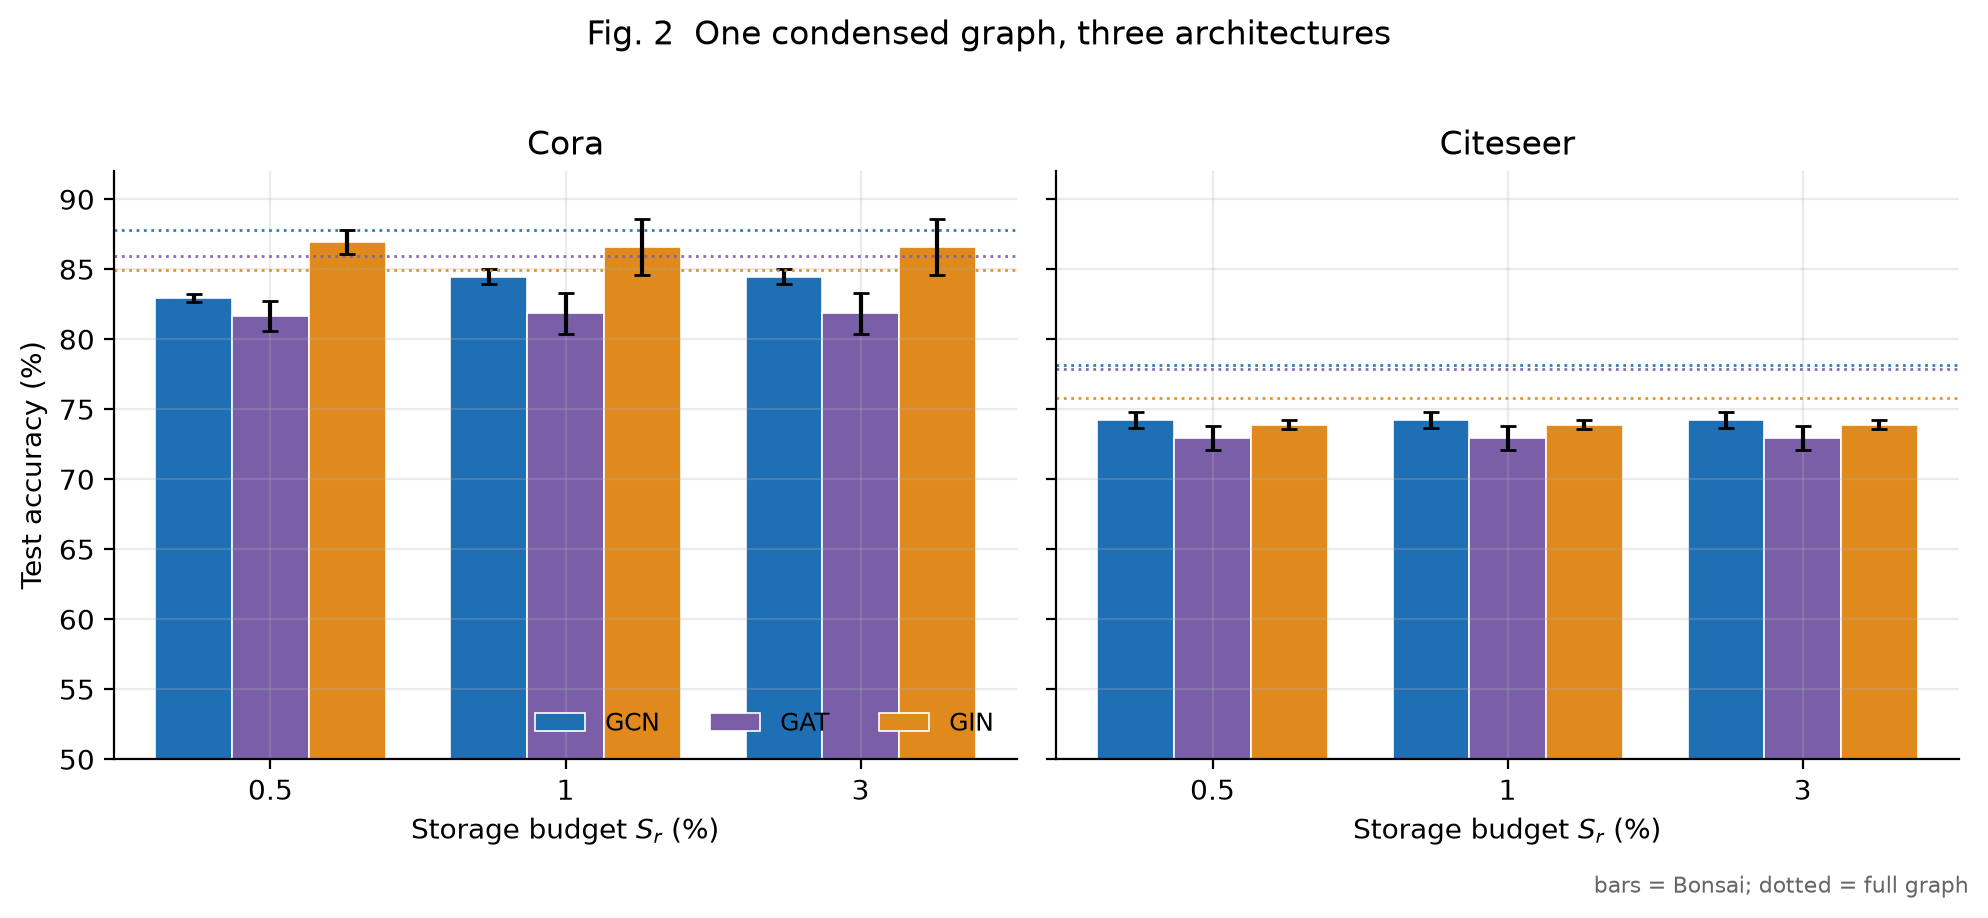
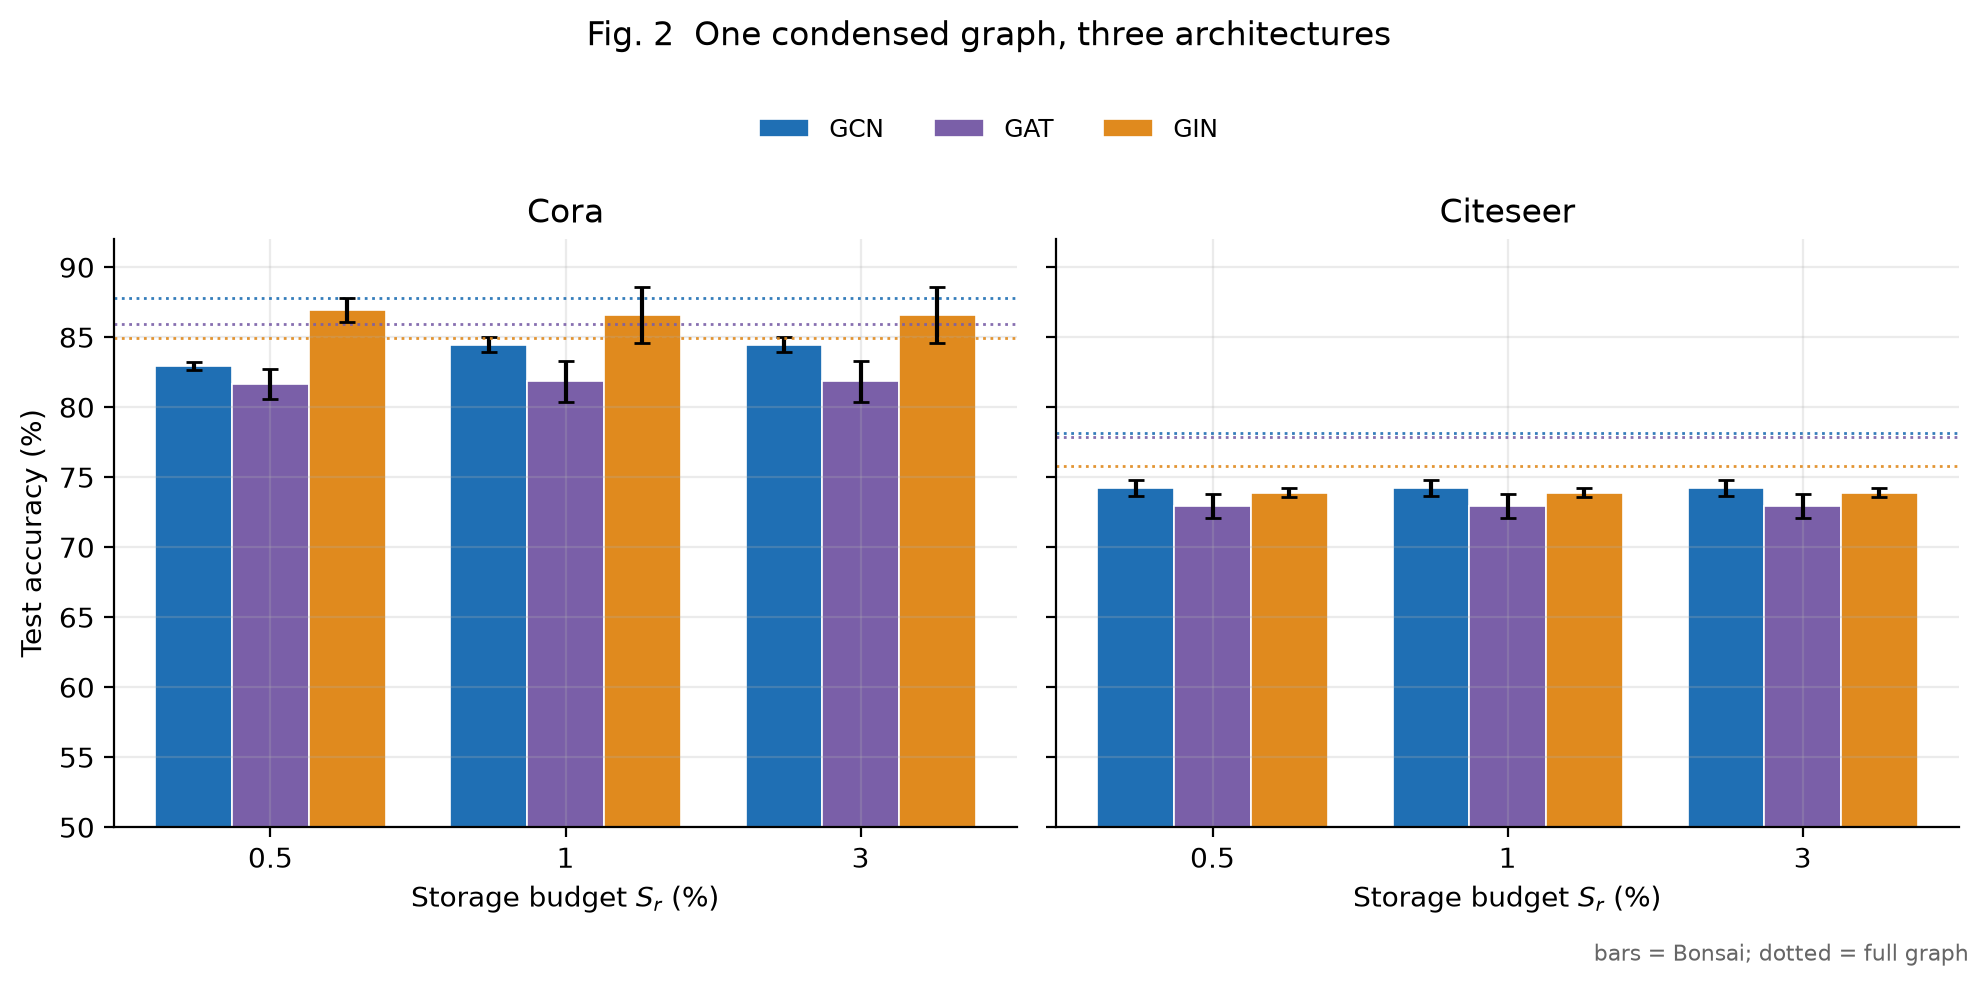
Fix figure legends overlapping the bars (fig2, fig3)
The per-axes legend with loc="lower right" sat on top of the right-hand
group of bars. Both figures now use a figure-level legend placed above the
two panels (ncol=3 for fig2, ncol=4 for fig3) with the suptitle moved up to
y=1.10. Verified with bounding boxes: legend y=[475,502] vs axes y<=421,
no intersection in either figure.

Re-rendered all eight PNGs (zh + en).

diff --git a/experiment/plot_results.py b/experiment/plot_results.py
@@ -244,8 +244,10 @@ def fig2(exp2, exp1, full_ref, budgets, out: Path, t: dict) -> None:
         ax.set_title(ds.capitalize())
         ax.set_ylim(50, 92)
     axes[0].set_ylabel(t["fig2_y"])
-    axes[0].legend(ncol=3, loc="lower right", fontsize=9)
-    fig.suptitle(t["fig2"], y=1.02)
+    handles, labels = axes[0].get_legend_handles_labels()
+    fig.legend(handles, labels, loc="upper center", ncol=3,
+               bbox_to_anchor=(0.5, 1.01), fontsize=9)
+    fig.suptitle(t["fig2"], y=1.10)
     fig.text(0.99, -0.02, "bars = Bonsai; dotted = full graph", ha="right",
              fontsize=8, color="#666666")
     fig.tight_layout()
@@ -282,10 +284,12 @@ def fig3(exp3, budgets, out: Path, t: dict) -> None:
     ax1.set_ylabel(t["fig3_y"])
     ax1.set_ylim(70, 84.5)
     ax1.set_title(t["fig3a"])
-    ax1.legend(loc="lower right", fontsize=8.5)
+    handles, labels = ax1.get_legend_handles_labels()
+    fig.legend(handles, labels, loc="upper center", ncol=4,
+               bbox_to_anchor=(0.5, 1.01), fontsize=8.5)
     ax2.set_ylabel(t["fig3_kb"])
     ax2.set_title(t["fig3b"])
-    fig.suptitle(t["fig3"], y=1.02)
+    fig.suptitle(t["fig3"], y=1.10)
     fig.text(0.99, -0.03, t["fig3_note"], ha="right", fontsize=8, color="#666666")
     fig.tight_layout()
     fig.savefig(out, bbox_inches="tight")
